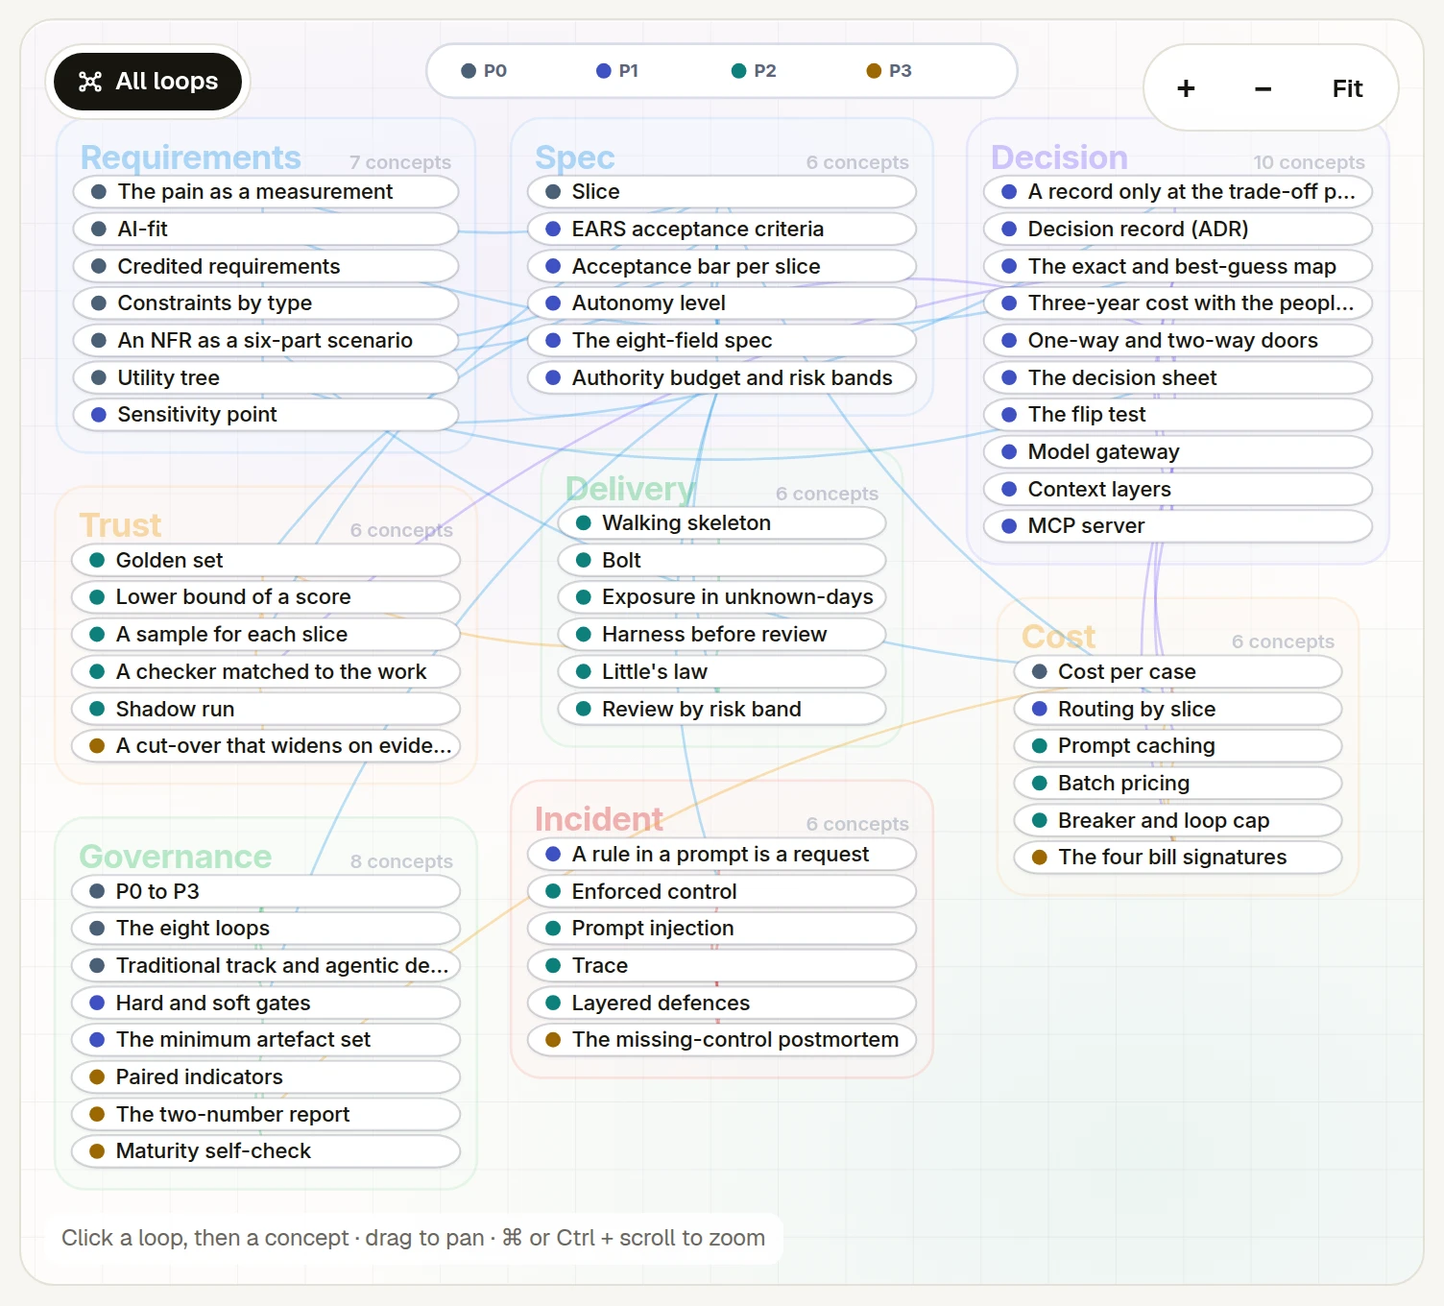
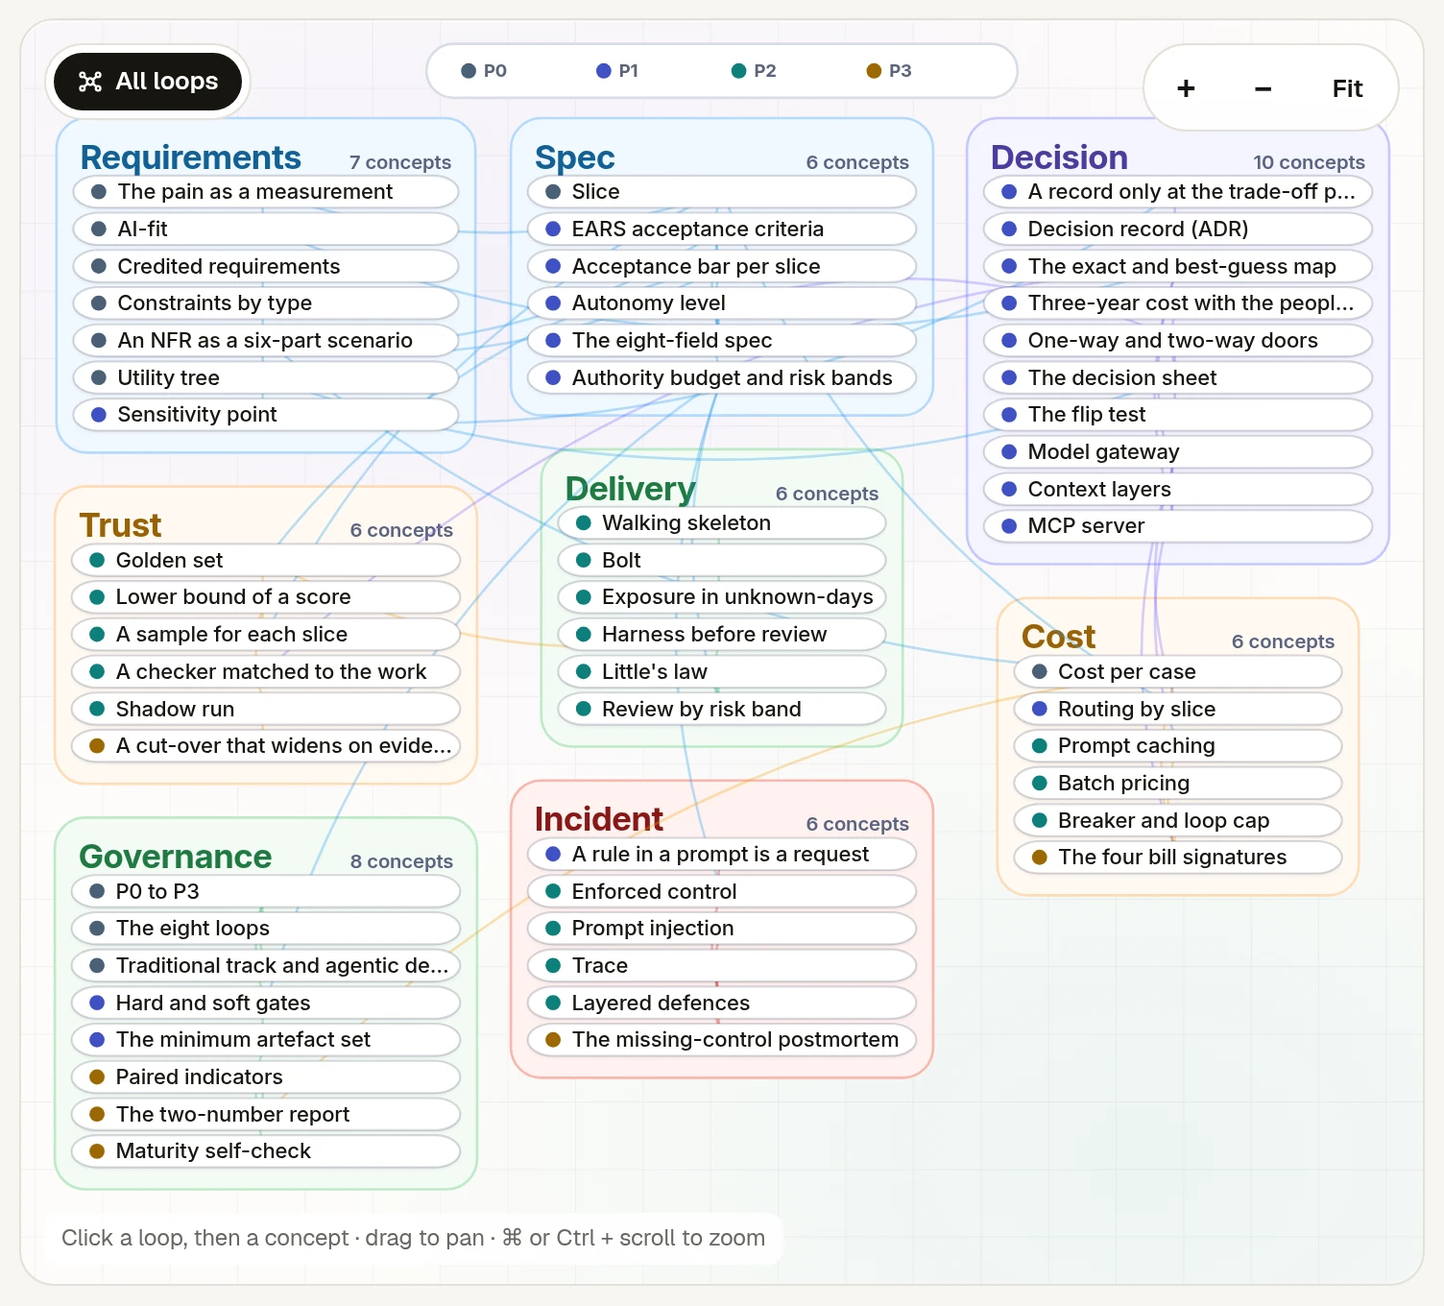
The workbench on a phone meets the floor, and its pictures' labels read
On a phone (the tool's site layer and the frame's stylesheet):
- the menu sheet's Close, Search, Evidence pack and "Light or dark" buttons and its brand link,
  the role tabs and the roles figure's role rows are 44px tall (38, 29.6, 39.6 and 42 before);
- the frame footer's links are 44px tall, as the site footer's are, their line kept under the
  words (21px before);
- a rail chip the keyboard reaches is scrolled wholly into view, 12px in from the rail's edge, so
  its ring is never cut (four of ten were cut by up to 178px);
- the roles figure keeps each phase's chips under its label, inside the card: they ran up to
  88px past it, cutting their words and rings.

The pictures (both themes):
- the loop map's numbered badges, the decision tree's end node and the active loop's pill use the
  hue at 62% behind white type, and the board palette's dark green and amber text are deepened the
  same way (5.1:1 and up; 2.15 to 3.6 before);
- the gate picture's "before P1 closes" heads take the sign-off's dark rose and the phase heads
  each phase's dark hue (7.5 and 6.5:1; 3.35 and 4.1 before); the triangle's circles carry ink and
  "gives way" the sign-off's ink for the theme it is drawn on;
- the concept map's loop names were always at 35% opacity, because the test for a quiet cluster
  looked for its concepts inside the cluster's group, where none are; it now finds them by loop,
  so a cluster is quiet only when all its concepts are dimmed. The names take their hue at 62% and
[…]

diff --git a/site/app/SkyWays-Architect.html b/site/app/SkyWays-Architect.html
@@ -2265,6 +2265,11 @@ h2.gh{font-family:var(--display);font-weight:620;letter-spacing:-.03em;font-size
 /* the top bar on a phone: 44px controls; under 386px the Simulator pill is its play mark alone, so Menu stays on screen */
 @media (max-width:900px){.topnav .xbrand{min-height:44px}.topnav .xright{margin-left:0;gap:4px}.topnav .xplay{height:44px;margin:0;padding:0 14px 0 12px;gap:6px}.topnav .xtgl{width:44px;height:44px}#xburger{height:44px;margin-left:0;padding:0 12px}}
 @media (max-width:385px){.topnav .xplay{width:44px;padding:0;justify-content:center;gap:0}.topnav .xplay span{position:absolute;width:1px;height:1px;overflow:hidden;clip-path:inset(50%);white-space:nowrap}}
+/* phones: 44px targets; a focused rail chip scrolls into view (script at the end) */
+@media (max-width:900px){.xsheet .sh,.xsheet .xpill,.xsheet .xbrand,.xrtab-tabs button,.xrg-role{min-height:44px}.dd .rail2{scroll-padding-inline:12px}}
+@media (max-width:700px){.xrg-cell{flex-wrap:nowrap}}
+/* the concept map's names and counts, 4.5:1 */
+.xzm-w svg .xc .t{fill:color-mix(in srgb,var(--lc) 62%,#000)}.xzm-w svg .xc .k{fill:#5A6380}
 /* ===== site layer: end ===== */
 </style>
 </head>
@@ -3845,10 +3850,10 @@ SIM_LIST.push(["master","Everyone","Days 1 to 90 · all eight loops","Thirteen d
 // =====================================================================
 // GOVERNANCE · hard and soft gates, the decision explosion sorted, the minimum artefact set, the triangle, the gateway, RACI
 // =====================================================================
-function gatesSVG(){const W=900,H=292,PH=[["P0","Frame",IC.p0],["P1","Design & Spec",IC.p1],["P2","Build & Prove",IC.p2],["P3","Run & Learn",IC.p3]],cw=186,gap=34,x0=30;let s="";
- PH.forEach((p,i)=>{const x=x0+i*(cw+gap);s+=rr(x,34,cw,50,{f:p[2]+"1F",s:p[2],r:12,sw:1.6})+tx(x+14,55,p[0],{b:1,c:p[2],fs:14})+tx(x+14,73,p[1],{c:IC.ink,fs:12});if(i<3){const gx=x+cw+gap/2,hard=i===1;s+=ln(gx,20,gx,280,{s:hard?"#A93F3F":IC.faint,sw:hard?3:1.5,d:hard?"":"5,5"})+rr(gx-40,2,80,20,{f:hard?"#F9EAEA":"#fff",s:hard?"#A93F3F":IC.faint,r:10})+tx(gx,16,hard?"hard gate":"soft gate",{a:"middle",b:1,c:hard?"#862F2F":IC.soft,fs:10.5});}});
+function gatesSVG(){const W=900,H=292,PH=[["P0","Frame",IC.p0,"#35485A"],["P1","Design & Spec",IC.p1,"#2C3A96"],["P2","Build & Prove",IC.p2,"#0A5E5C"],["P3","Run & Learn",IC.p3,"#744D02"]],cw=186,gap=34,x0=30;let s="";
+ PH.forEach((p,i)=>{const x=x0+i*(cw+gap);s+=rr(x,34,cw,50,{f:p[2]+"1F",s:p[2],r:12,sw:1.6})+tx(x+14,55,p[0],{b:1,c:p[3],fs:14})+tx(x+14,73,p[1],{c:IC.ink,fs:12});if(i<3){const gx=x+cw+gap/2,hard=i===1;s+=ln(gx,20,gx,280,{s:hard?"#A93F3F":IC.faint,sw:hard?3:1.5,d:hard?"":"5,5"})+rr(gx-40,2,80,20,{f:hard?"#F9EAEA":"#fff",s:hard?"#A93F3F":IC.faint,r:10})+tx(gx,16,hard?"hard gate":"soft gate",{a:"middle",b:1,c:hard?"#862F2F":IC.soft,fs:10.5});}});
  s+=tx(x0,112,"halts the phase",{b:1,c:"#862F2F",fs:12})+tx(x0,240,"runs alongside",{b:1,c:IC.soft,fs:12})+tx(x0,255,"the build",{b:1,c:IC.soft,fs:12});
- [["before P1 closes",["the AI-fit verdict","the autonomy level"]],["before P2 starts",["the spec in EARS","the bar per slice","guardrails, authority budget"]],["before P3 starts",["golden set at its bar","shadow run passed","rollback rehearsed"]]].forEach((h,i)=>{const x=x0+i*(cw+gap);s+=rr(x,120,cw,76,{f:IC.redF,s:IC.red,r:10})+tx(x+10,137,h[0],{b:1,c:IC.red,fs:11.5});h[1].forEach((t,k)=>s+=tx(x+10,153+k*14,"· "+t,{c:IC.ink,fs:11.5}));});
+ [["before P1 closes",["the AI-fit verdict","the autonomy level"]],["before P2 starts",["the spec in EARS","the bar per slice","guardrails, authority budget"]],["before P3 starts",["golden set at its bar","shadow run passed","rollback rehearsed"]]].forEach((h,i)=>{const x=x0+i*(cw+gap);s+=rr(x,120,cw,76,{f:IC.redF,s:IC.red,r:10})+tx(x+10,137,h[0],{b:1,c:"#862F2F",fs:11.5});h[1].forEach((t,k)=>s+=tx(x+10,153+k*14,"· "+t,{c:IC.ink,fs:11.5}));});
  [["P1",["model tier · model family","framework · cloud"]],["P2",["retrieval and memory design","caching configuration"]],["P3",["judge rubric refinements","dashboard cuts"]]].forEach((h,i)=>{const x=x0+(i+1)*(cw+gap);s+=rr(x,214,cw,58,{f:"#fff",s:IC.soft,r:10,d:"4,4"})+tx(x+10,231,h[0],{b:1,c:IC.soft,fs:11.5});h[1].forEach((t,k)=>s+=tx(x+10,247+k*14,"· "+t,{c:IC.ink,fs:11.5}));});
  return sv(W,H,s);}
 function gatewaySVG(){const W=900,H=250;let s="";[["the rebooking agent",40],["the independent judge",105],["nightly batch jobs",170]].forEach(c=>{s+=rr(20,c[1],190,44,{f:"#fff",s:IC.p1,r:12,sw:1.5})+tx(115,c[1]+27,c[0],{a:"middle",fs:12,c:IC.ink})+ar(212,c[1]+22,296,127,{s:IC.ink2,sw:1.3});});
@@ -3857,7 +3862,7 @@ function gatewaySVG(){const W=900,H=250;let s="";[["the rebooking agent",40],["t
  [["cheap tier","same-day lookups",40,IC.grn],["mid tier","next-day repricing",105,IC.amb],["frontier tier","codeshare and visa cases",170,IC.red]].forEach(c=>{s+=ar(602,127,686,c[2]+22,{s:IC.ink2,sw:1.3})+rr(690,c[2],190,44,{f:c[3]+"1F",s:c[3],r:12,sw:1.5})+tx(785,c[2]+19,c[0],{a:"middle",b:1,fs:12,c:IC.ink})+tx(785,c[2]+34,c[1],{a:"middle",fs:10.5,c:IC.ink2});});
  return sv(W,H,s);}
 function trianglePanel(mountId){const M=document.getElementById(mountId);if(!M)return;let push="quality";const EFF={quality:{quality:3,cost:1,latency:1,note:"Pushing quality means the frontier model and more retries. The 80 percent bar clears on every slice, and both the cost per case and the P95 latency move the wrong way: NFR-03 at $0.60 per case and NFR-01 at 30 seconds are now at risk."},cost:{quality:1,cost:3,latency:2,note:"Pushing cost down means the cheap tier and aggressive caching. Latency holds and the $0.60 target is met, while quality on the hard slices drops below the bar, as the codeshare pilot showed at 76.1 percent. Routing by slice keeps the bar where it matters."},latency:{quality:2,cost:1,latency:3,note:"Pushing latency means parallel calls and a provisioned fast path. The 30 second P95 holds and quality holds on most slices, while the cost per case rises, because speed is bought with capacity that sits idle off-peak."}};
- const draw=()=>{const e=EFF[push];M.innerHTML=`<div class="glass" style="padding:16px 20px"><div class="xctl"><span class="xlab">Push one corner</span>${["quality","cost","latency"].map(k=>`<button type="button" class="chip ${push===k?"on":""}" data-k="${k}">${k}</button>`).join("")}</div><div class="xg2" style="align-items:center;margin-top:6px"><div>${sv(360,300,(()=>{const P={quality:[180,48],cost:[52,250],latency:[308,250]};let t=`<polygon points="180,48 52,250 308,250" fill="rgba(255,255,255,.7)" stroke="${IC.faint}" stroke-width="1.5"/>`;Object.entries(P).forEach(([k,[x,y]])=>{const v=e[k],r=12+v*8;t+=`<circle cx="${x}" cy="${y}" r="${r}" fill="${k===push?IC.grn:v===1?IC.redF:IC.ambF}" stroke="${k===push?IC.grn:v===1?IC.red:IC.amb}" stroke-width="2"/>`+tx(x,y+4,k,{a:"middle",b:1,c:k===push?"#fff":IC.ink,fs:11})+tx(x,y+r+15,k===push?"pushed":v===2?"holds":"gives way",{a:"middle",b:1,c:v===1?IC.red:IC.ink2,fs:11});});return t;})())}</div><div><p style="font-size:15px;margin:0 0 10px">${e.note}</p><p style="font-size:14px;margin:0;color:var(--ink)"><b>How to read it.</b> The circle you push grows and turns green. A red circle gives way, and an amber one holds. The triangle is the reason the spec says exact or best-guess per step and ADR-001 routes by slice: each slice chooses its own corner, and no single corner is chosen for the whole product.</p></div></div></div>`;M.querySelectorAll(".chip").forEach(b=>b.onclick=()=>{push=b.dataset.k;draw();});};draw();}
+ const draw=()=>{const e=EFF[push];M.innerHTML=`<div class="glass" style="padding:16px 20px"><div class="xctl"><span class="xlab">Push one corner</span>${["quality","cost","latency"].map(k=>`<button type="button" class="chip ${push===k?"on":""}" data-k="${k}">${k}</button>`).join("")}</div><div class="xg2" style="align-items:center;margin-top:6px"><div>${sv(360,300,(()=>{const P={quality:[180,48],cost:[52,250],latency:[308,250]};let t=`<polygon points="180,48 52,250 308,250" fill="rgba(255,255,255,.7)" stroke="${IC.faint}" stroke-width="1.5"/>`;Object.entries(P).forEach(([k,[x,y]])=>{const v=e[k],r=12+v*8;t+=`<circle cx="${x}" cy="${y}" r="${r}" fill="${k===push?IC.grn:v===1?IC.redF:IC.ambF}" stroke="${k===push?IC.grn:v===1?IC.red:IC.amb}" stroke-width="2"/>`+tx(x,y+4,k,{a:"middle",b:1,c:IC.ink,fs:11})+tx(x,y+r+15,k===push?"pushed":v===2?"holds":"gives way",{a:"middle",b:1,c:v===1?"var(--gate-ink)":IC.ink2,fs:11});});return t;})())}</div><div><p style="font-size:15px;margin:0 0 10px">${e.note}</p><p style="font-size:14px;margin:0;color:var(--ink)"><b>How to read it.</b> The circle you push grows and turns green. A red circle gives way, and an amber one holds. The triangle is the reason the spec says exact or best-guess per step and ADR-001 routes by slice: each slice chooses its own corner, and no single corner is chosen for the whole product.</p></div></div></div>`;M.querySelectorAll(".chip").forEach(b=>b.onclick=()=>{push=b.dataset.k;draw();});};draw();}
 const GV_HARD=[["The AI-fit verdict","It fixes the shape of the product, and changing it later means starting again."],["The autonomy level on refunds","It moves money, and a regulator has a rule about it."],["The spec, the bar and the guardrails","Everything downstream is built and measured against them."]];
 const GV_SOFT=[["Model tier per slice","everything on the mid tier, behind the gateway","the shadow run, Day 45"],["Model family","whichever the gateway points at today","when the golden set exists"],["Framework","an interface layer in front of it","Day 20, as ADR-004"],["Cloud service and region","any in-region option, since data must stay in-region","before P2 hardening"],["Retrieval design","a stub that returns the fare rules file","during P2"],["Memory","none; slice 1 does not need it","when a slice needs it"],["Judge rubric","rubric v0, three criteria","during the shadow run"],["Dashboard cuts","the default trace view","in P3"]];
 NPage("governance",{title:"Governance",hue:["#7D84A8","#5B5FEA"],has:s=>/^gv-/.test(s),
@@ -4949,10 +4954,11 @@ if(NP.start){const _sb2=NP.start.build;NP.start.build=function(){_sb2.call(this)
 // =====================================================================
 // EXPLAINER ILLUSTRATIONS · the grammar of a ByteByteGo panel: a coloured label column, flat two-tone icons, numbered dashed flows that move, and a callout that says what the picture is for
 // =====================================================================
-const BB={g:{s:"#34C46A",t:"#E8F8EE",b:"#7ADFA0",d:"#1E9A4E"},b:{s:"#1D9BF0",t:"#E6F2FD",b:"#8CC8F5",d:"#0F6FB5"},p:{s:"#7B61FF",t:"#ECE8FF",b:"#B3A5FF",d:"#5A42D6"},t:{s:"#12A5A0",t:"#E3F7F6",b:"#7ED6D3",d:"#0B7C78"},o:{s:"#F59E0B",t:"#FFF4E0",b:"#FBD48A",d:"#B36F04"},k:{s:"#A93F3F",t:"#F9EAEA",b:"#E0A9A9",d:"#862F2F"},n:{s:"#16150F",t:"#F1EFEA",b:"#C4BFB3",d:"#16150F"},
+const BB={g:{s:"#34C46A",t:"#E8F8EE",b:"#7ADFA0",d:"#207A42"},b:{s:"#1D9BF0",t:"#E6F2FD",b:"#8CC8F5",d:"#0F6FB5"},p:{s:"#7B61FF",t:"#ECE8FF",b:"#B3A5FF",d:"#5A42D6"},t:{s:"#12A5A0",t:"#E3F7F6",b:"#7ED6D3",d:"#0B7C78"},o:{s:"#F59E0B",t:"#FFF4E0",b:"#FBD48A",d:"#986207"},k:{s:"#A93F3F",t:"#F9EAEA",b:"#E0A9A9",d:"#862F2F"},n:{s:"#16150F",t:"#F1EFEA",b:"#C4BFB3",d:"#16150F"},
  // the four phases and the sign-off, in the manual's hues: slate, indigo, teal, amber, rose (k, above)
  P0:{s:"#4A6076",t:"#EAEFF3",b:"#A7B6C4",d:"#35485A"},P1:{s:"#3F51C4",t:"#EAEDFB",b:"#A8B1EA",d:"#2C3A96"},P2:{s:"#0E7F7C",t:"#E1F3F2",b:"#86CDCA",d:"#0A5E5C"},P3:{s:"#9C6803",t:"#FBF1DC",b:"#DFC07E",d:"#744D02"},
  ink:"#16150F",ink2:"#44423B",white:"#FFFFFF"};
+const bbDeep=c=>"#"+[1,3,5].map(i=>Math.round(parseInt(c.slice(i,i+2),16)*.62).toString(16).padStart(2,"0")).join("");
 const bbW=(s,fs)=>Math.round(s.length*fs*.58+26);
 const bbText=(x,y,s,o={})=>`<text x="${x}" y="${y}" font-size="${o.fs||12}" font-weight="${o.w||(o.b?700:500)}" fill="${o.c||BB.ink}" text-anchor="${o.a||"start"}" font-family="Inter,system-ui,sans-serif"${o.ls?` letter-spacing="${o.ls}"`:""}>${s}</text>`;
 const bbLines=(x,y,lines,o={})=>lines.map((l,i)=>bbText(x,y+i*(o.lh||14),esc(l),o)).join("");
@@ -5111,8 +5117,8 @@ function rsAll(){document.querySelectorAll("svg:not([data-rs])").forEach(rsSvg);
 const LM_Q={P0:"Is the problem worth a model at all?",P1:"What must it do, how right, how free?",P2:"Prove it, slice by slice.",P3:"Report, watch, learn."};
 const LM_PC={P0:BB.P0,P1:BB.P1,P2:BB.P2,P3:BB.P3};
 function lmArc(x1,x2,y,apex,c,o){const cx=(x1+x2)/2,cy=apex,ex=x2,ey=y;const ang=Math.atan2(ey-(2*cy-y),ex-cx),L=9,Wd=5.5;const hx=ex,hy=ey;const p1=[hx-L*Math.cos(ang)+Wd*Math.sin(ang),hy-L*Math.sin(ang)-Wd*Math.cos(ang)],p2=[hx-L*Math.cos(ang)-Wd*Math.sin(ang),hy-L*Math.sin(ang)+Wd*Math.cos(ang)];
- const sw=o.active?3.2:2.2;let m=`<g data-loop="${o.id}" class="lm-loop${o.active?" on":""}" style="cursor:pointer"><path d="M${x1} ${y}Q${cx} ${2*cy-y} ${x2} ${y}" fill="none" stroke="${c}" stroke-width="${sw}" stroke-dasharray="7 5" stroke-linecap="round" class="bb-flow"/><path d="M${hx} ${hy}L${p1[0]} ${p1[1]}L${p2[0]} ${p2[1]}Z" fill="${c}"/>`;
- const lab=`${o.n} · ${o.who}`,w=bbW(lab,11)+24,lx=cx-w/2,ly=cy-13;m+=`<rect x="${lx}" y="${ly}" width="${w}" height="26" rx="13" fill="${o.active?c:"#fff"}" stroke="${c}" stroke-width="1.8"/><circle cx="${lx+14}" cy="${ly+13}" r="9" fill="${o.active?"#fff":c}"/>`+bbText(lx+14,ly+17,String(o.i),{a:"middle",fs:10.5,b:1,c:o.active?c:"#fff"})+bbText(lx+30,ly+17,esc(lab),{fs:11,b:1,c:o.active?"#fff":BB.ink})+`<title>${esc(o.n)}: ${esc(o.line||"")}</title></g>`;return m;}
+ const sw=o.active?3.2:2.2,cd=bbDeep(c);let m=`<g data-loop="${o.id}" class="lm-loop${o.active?" on":""}" style="cursor:pointer"><path d="M${x1} ${y}Q${cx} ${2*cy-y} ${x2} ${y}" fill="none" stroke="${c}" stroke-width="${sw}" stroke-dasharray="7 5" stroke-linecap="round" class="bb-flow"/><path d="M${hx} ${hy}L${p1[0]} ${p1[1]}L${p2[0]} ${p2[1]}Z" fill="${c}"/>`;
+ const lab=`${o.n} · ${o.who}`,w=bbW(lab,11)+24,lx=cx-w/2,ly=cy-13;m+=`<rect x="${lx}" y="${ly}" width="${w}" height="26" rx="13" fill="${o.active?cd:"#fff"}" stroke="${c}" stroke-width="1.8"/><circle cx="${lx+14}" cy="${ly+13}" r="9" fill="${o.active?"#fff":cd}"/>`+bbText(lx+14,ly+17,String(o.i),{a:"middle",fs:10.5,b:1,c:o.active?cd:"#fff"})+bbText(lx+30,ly+17,esc(lab),{fs:11,b:1,c:o.active?"#fff":BB.ink})+`<title>${esc(o.n)}: ${esc(o.line||"")}</title></g>`;return m;}
 function loopMapSVG(activePhase,activeLoop){const W=1180,H=600,PX={P0:190,P1:470,P2:750,P3:1030},PW=200,PY=270,PH=104,keys=["P0","P1","P2","P3"];let m="";
  // hand-off arrows along the spine, the hard gate between P1 and P2, and the return underneath
  m+=bbFlow([[PX.P0+PW/2+2,PY+PH/2],[PX.P1-PW/2-2,PY+PH/2]],{c:BB.ink,sw:2.2});
@@ -5170,7 +5176,7 @@ Object.assign(CH,{
   rows.forEach((r,j)=>{const y=42+j*rh,c=chC(r.c),chosen=/chosen/.test(r.l),RL=wrapTx(r.l,40).slice(0,2);s+=bbLines(lab-14,y+24-(RL.length-1)*6,RL,{a:"end",fs:11.5,b:chosen?1:0,c:chosen?c:BB.ink,lh:12.5});r.v.forEach((v,i)=>{const x=lab+i*cw+8,w=cw-16;s+=`<rect x="${x}" y="${y+4}" width="${w}" height="${rh-10}" rx="9" fill="${v===2?c:v===1?chTint(c):"#fff"}" stroke="${c}" stroke-width="${v===0?1.2:1.8}"${v===0?' stroke-dasharray="4 4"':""}/>`+bbText(x+w/2,y+24,v===2?"high":v===1?"medium":"low",{a:"middle",fs:11,b:1,c:v===2?"#fff":v===1?BB.ink:BB.ink2});});});return sv(W,H,s);},
  tree(qs,yes){const n=qs.length+1,W=900,cw=(W-20)/n,bw=cw-28,H=256;let s="";qs.forEach((it,i)=>{const x=10+i*cw,cx=x+bw/2;s+=`<rect x="${x}" y="20" width="${bw}" height="86" rx="12" fill="#fff" stroke="${BB.b.s}" stroke-width="1.8"/>`+bbNum(x+14,34,i+1,BB.b);const Q=wrapTx(it.q,Math.floor(bw/6.4)).slice(0,4);s+=bbLines(cx,66-(Q.length-1)*6.5,Q,{a:"middle",fs:11.5,b:1,lh:13});
   s+=bbFlow([[x+bw+3,63],[x+cw-5,63]],{c:BB.g.d,sw:1.8})+bbText(x+bw+(cw-bw)/2,54,"yes",{a:"middle",fs:10.5,b:1,c:BB.g.d});s+=bbFlow([[cx,108],[cx,150]],{c:BB.k.s,sw:1.6})+bbText(cx+9,132,"no",{fs:10.5,b:1,c:BB.k.d});const nc=chC(it.no.c);s+=`<rect x="${x}" y="154" width="${bw}" height="80" rx="12" fill="${chTint(nc)}" stroke="${nc}" stroke-width="1.6"/>`;const N=wrapTx(it.no.l,Math.floor(bw/6)).slice(0,4);s+=bbLines(cx,196-(N.length-1)*6,N,{a:"middle",fs:11,b:1,lh:12.5});});
-  const x=10+qs.length*cw,cx=x+bw/2,yc=chC(yes.c);s+=`<rect x="${x}" y="20" width="${bw}" height="86" rx="12" fill="${yc}"/>`;const Y=wrapTx(yes.l,Math.floor(bw/6.3)).slice(0,4);s+=bbLines(cx,66-(Y.length-1)*6.5,Y,{a:"middle",fs:11.5,b:1,c:"#fff",lh:13});return sv(W,H,s);},
+  const x=10+qs.length*cw,cx=x+bw/2,yc=chC(yes.c);s+=`<rect x="${x}" y="20" width="${bw}" height="86" rx="12" fill="${bbDeep(yc)}"/>`;const Y=wrapTx(yes.l,Math.floor(bw/6.3)).slice(0,4);s+=bbLines(cx,66-(Y.length-1)*6.5,Y,{a:"middle",fs:11.5,b:1,c:"#fff",lh:13});return sv(W,H,s);},
  map2(left,right,links){const W=900,rh=38,H=Math.max(left.length,right.length)*rh+44;let s=bbPill(20,6,"sections of the 30-page PRD",BB.b,{fs:11.5,r:8,h:24}).m;const P=bbPill(0,0,"the eight fields a coding agent reads",BB.p,{fs:11.5,r:8,h:24});s+=bbPill(W-20-P.w,6,"the eight fields a coding agent reads",BB.p,{fs:11.5,r:8,h:24}).m;
   const ly=i=>40+i*rh+(H-44-left.length*rh)/2,ry=i=>40+i*rh+(H-44-right.length*rh)/2;links.forEach(([a,b])=>s+=`<path d="M300 ${ly(a)+15} C440 ${ly(a)+15},470 ${ry(b)+15},606 ${ry(b)+15}" fill="none" stroke="${BB.b.s}" stroke-width="2" stroke-dasharray="7 5" class="bb-flow"/>`);
   left.forEach((l,i)=>{const used=links.some(k=>k[0]===i);s+=`<rect x="20" y="${ly(i)}" width="280" height="30" rx="9" fill="${used?"#fff":BB.n.t}" stroke="${used?BB.b.s:BB.n.b}" stroke-width="${used?1.8:1.2}"${used?"":' stroke-dasharray="4 4"'}/>`+bbText(34,ly(i)+20,esc(l),{fs:12,b:used?1:0,c:used?BB.ink:BB.ink2});});
@@ -5457,7 +5463,7 @@ document.addEventListener("click",e=>{const r=e.target.closest("[data-zread]");i
 function xzmSync(){if(!XZ||!document.body.contains(XZ.S))return;const cur=XZ.hover||XZ.sel;const rel=cur?new Set([cur,...(CBY[cur]?CBY[cur].from:[]),...cLeads(cur)]):null;
  XZ.S.querySelectorAll(".xn").forEach(n=>{const c=CBY[n.dataset.cid];const roleOK=CMAP_ROLE==="all"||c.r.includes(CMAP_ROLE);n.classList.toggle("sel",n.dataset.cid===XZ.sel);n.classList.toggle("rel",!!rel&&rel.has(n.dataset.cid)&&n.dataset.cid!==cur);n.classList.toggle("dim",!roleOK||(!!rel&&!rel.has(n.dataset.cid)));});
  XZ.S.querySelectorAll(".xe").forEach(p=>{const on=cur&&(p.dataset.a===cur||p.dataset.b===cur);p.classList.toggle("on",!!on);p.classList.toggle("in",!!on&&p.dataset.b===cur);p.classList.toggle("off",!!cur&&!on);});
- XZ.S.querySelectorAll(".xc").forEach(g=>{const any=[...g.querySelectorAll(".xn")].some(n=>!n.classList.contains("dim"));g.classList.toggle("quiet",!any);});}
+ XZ.S.querySelectorAll(".xc").forEach(g=>{const any=[...XZ.S.querySelectorAll(".xn")].some(n=>CBY[n.dataset.cid].g===g.dataset.loop&&!n.classList.contains("dim"));g.classList.toggle("quiet",!any);});}
 
 
 // ---------- UX pass A: the rail reads as phase groups ----------
@@ -5472,4 +5478,5 @@ function ovFront(){const main=document.getElementById("main");if(!main||main.que
 function ovSync(){document.querySelectorAll(".ovsteps [data-ovgo]").forEach(b=>{const i=+b.dataset.ovgo;b.classList.toggle("active",i===cur);b.classList.toggle("done",i<cur);});document.querySelectorAll("[data-rchip]").forEach(b=>b.classList.toggle("on",b.dataset.rchip===ROLE));}
 document.querySelectorAll(".rolebar").forEach(rb=>{const btn=rb.querySelector("button");if(btn)btn.remove();const w=document.createElement("span");w.className="rbchips";w.innerHTML=Object.entries(ROLES).map(([k,r])=>`<button type="button" class="rchip sm" data-rchip="${k}" style="--rc:${r.c}"><i>${r.L}</i>${r.n.split(" ")[0]}</button>`).join("");rb.appendChild(w);rb.addEventListener("click",e=>{const rc=e.target.closest("[data-rchip]");if(rc){setRole(rc.dataset.rchip);record("role","Role lens: "+ROLES[rc.dataset.rchip].n,null);}});});
 ovFront();
+document.addEventListener("focusin",e=>{const a=e.target;if(a.closest&&a.closest(".rail2")&&matchMedia("(max-width:900px)").matches)a.scrollIntoView({block:"nearest",inline:"nearest"});});
 </script></body></html>

diff --git a/site/frame/frame.css b/site/frame/frame.css
@@ -95,7 +95,9 @@ html .sw-drawer a{color:var(--sw-link,#3E5A82)}
 @media (prefers-reduced-motion:reduce){.sw-top{transition:none}}
 @media print{.sw-top{display:none!important}}
 
-@media (max-width:820px){.sw-send,.sw-btn,.sw-x{min-height:44px}.sw-x{min-width:44px}}
+@media (max-width:820px){.sw-send,.sw-btn,.sw-x{min-height:44px}.sw-x{min-width:44px}
+  .sw-footer ul a,.sw-footer .sw-legal a{display:inline-flex;align-items:center;min-height:44px}   /* the footer's links, as the site footer's, */
+  html .sw-footer ul a{border-bottom:0;text-decoration:underline 1px color-mix(in oklab,var(--sw-link,#3E5A82) 35%,transparent);text-underline-offset:4px}}   /* the line kept under the words */
 
 /* The two floating buttons sit in the page's side gutter. Where there is no gutter they would sit on the
    words, so they are not shown: the footer has the same way to write, and the top bar stays in reach. */
